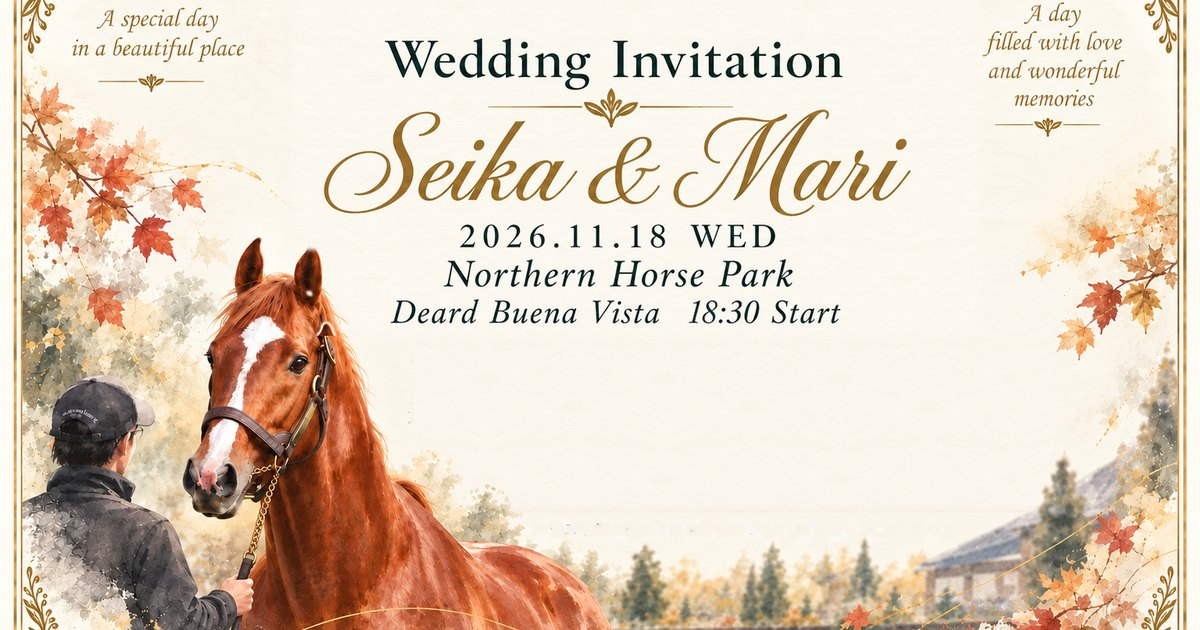
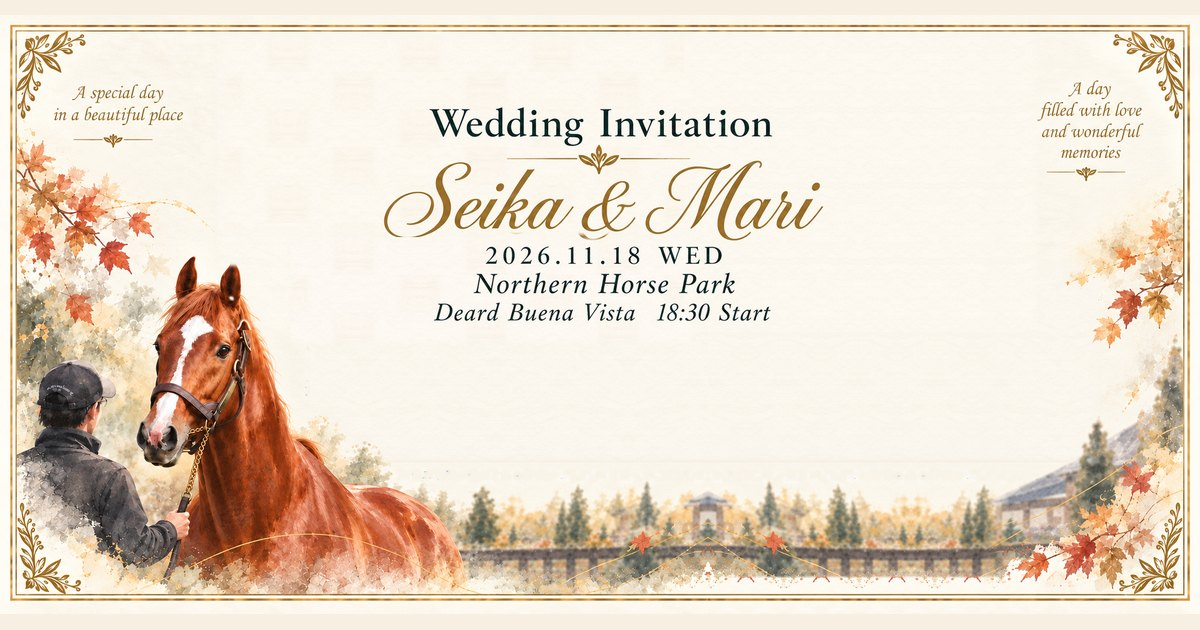
Widen the invitation, drop the scenery band, add more motion

diff --git a/index.html b/index.html
@@ -9,7 +9,7 @@
 <meta property="og:url" content="https://seika-mari-wedding.github.io/hokkaido/">
 <meta property="og:title" content="Seika &amp; Mari — お祝いの会のご案内">
 <meta property="og:description" content="2026年11月18日（水）午後6時30分 開宴／ノーザンホースパーク Deard Buena Vista">
-<meta property="og:image" content="https://seika-mari-wedding.github.io/hokkaido/ogp.jpg?v=2">
+<meta property="og:image" content="https://seika-mari-wedding.github.io/hokkaido/ogp.jpg?v=3">
 <meta property="og:image:width" content="1200">
 <meta property="og:image:height" content="630">
 <meta property="og:locale" content="ja_JP">
@@ -82,7 +82,8 @@ h1,h2,h3,p,dl,dd,figure{margin:0}
 .btn{display:inline-flex;align-items:center;justify-content:center;min-height:52px;padding:0 30px;border:1px solid var(--ink);
  font:400 11px var(--jps);letter-spacing:.3em;text-transform:uppercase;text-decoration:none;color:var(--ink);
  background:transparent;cursor:pointer;transition:background .35s ease,color .35s ease,border-color .35s ease}
-.btn:hover{background:var(--ink);color:var(--paper)}
+.btn:hover{background:var(--ink);color:var(--paper);transform:translateY(-2px)}
+.btn{transition:background .35s ease,color .35s ease,border-color .35s ease,transform .35s ease}
 .btn.fill{background:var(--ink);color:var(--paper)}
 .btn.fill:hover{background:transparent;color:var(--ink)}
 
@@ -91,7 +92,13 @@ h1,h2,h3,p,dl,dd,figure{margin:0}
 .sec-head{display:flex;align-items:baseline;gap:20px;margin-bottom:clamp(30px,5vw,52px)}
 .sec-no{font:300 11px var(--jps);letter-spacing:.3em;color:var(--gold)}
 .sec-en{font:300 11px var(--jps);letter-spacing:.42em;text-transform:uppercase;color:var(--sub)}
-.sec-line{flex:1;height:1px;background:var(--line)}
+.sec-line{flex:1;height:1px;background:var(--line);transform-origin:left;transform:scaleX(0);transition:transform 1.4s cubic-bezier(.19,1,.22,1) .25s}
+.sec-head.in .sec-line{transform:scaleX(1)}
+.sec-head .sec-no,.sec-head .sec-en{display:inline-block;opacity:0;transform:translateX(-14px);transition:opacity .9s ease,transform .9s cubic-bezier(.19,1,.22,1)}
+.sec-head .sec-en{transition-delay:.12s}
+.sec-head.in .sec-no,.sec-head.in .sec-en{opacity:1;transform:none}
+.sec-head .sec-ja{opacity:0;letter-spacing:.4em;transition:opacity 1.2s ease .3s,letter-spacing 1.6s cubic-bezier(.19,1,.22,1) .3s}
+.sec-head.in .sec-ja{opacity:1;letter-spacing:.16em}
 .sec-ja{font:400 clamp(24px,3.4vw,34px) var(--jp);letter-spacing:.16em}
 .letter{font:400 clamp(15px,1.6vw,17px)/2.85 var(--jp);letter-spacing:.1em;text-align:center}
 .letter + .letter{margin-top:30px}
@@ -104,6 +111,11 @@ h1,h2,h3,p,dl,dd,figure{margin:0}
  padding:clamp(44px,7vw,78px) clamp(24px,5vw,56px);box-shadow:0 24px 60px rgba(90,56,22,.1)}
 .card:before{content:"";position:absolute;inset:9px;border:1px solid #ecdcc0;pointer-events:none;z-index:2}
 .card{overflow:hidden;isolation:isolate}
+.js-rv .card.rv{opacity:1;transform:none;clip-path:inset(0 0 100% 0);transition:clip-path 1.6s cubic-bezier(.77,0,.18,1)}
+.js-rv .card.rv.in{clip-path:inset(0 0 0 0)}
+.line{display:block;opacity:0;transform:translateY(10px);filter:blur(3px);
+ transition:opacity 1.1s ease var(--ld,0s),transform 1.1s cubic-bezier(.19,1,.22,1) var(--ld,0s),filter 1.1s ease var(--ld,0s)}
+.letter.in .line{opacity:1;transform:none;filter:none}
 .card > *:not(.card-bg){position:relative;z-index:1}
 .card > .orn{position:absolute;z-index:2}
 .card-bg{position:absolute;inset:0;z-index:0;pointer-events:none}
@@ -133,8 +145,6 @@ h1,h2,h3,p,dl,dd,figure{margin:0}
 .stops span{display:block;margin-top:8px;font:300 10px var(--jps);letter-spacing:.34em;text-transform:uppercase;color:var(--sub)}
 
 
-.band{height:clamp(170px,26vw,280px);background:url(scene.webp) center 72%/cover no-repeat;
- -webkit-mask-image:linear-gradient(#0000,#000 38%,#000 76%,#0000);mask-image:linear-gradient(#0000,#000 38%,#000 76%,#0000)}
 
 .count{text-align:center;font:300 11px var(--jps);letter-spacing:.42em;text-transform:uppercase;color:var(--sub)}
 .count strong{display:block;font:300 clamp(54px,9vw,96px)/1.1 var(--serif);color:var(--gold);letter-spacing:.02em;margin-bottom:6px}
@@ -175,13 +185,23 @@ details p{padding:0 4px 24px;font:300 15px/2.2 var(--jps);color:var(--sub)}
 
 footer{padding:clamp(60px,9vw,96px) 0 clamp(50px,7vw,80px);text-align:center}
 .foot-names{font:400 clamp(38px,6vw,56px) var(--script);color:var(--gold)}
+.names-en,.foot-names{clip-path:inset(0 100% 0 0);transition:clip-path 2.2s cubic-bezier(.65,0,.35,1) .2s}
+.names-en.in,.foot-names.in{clip-path:inset(0 0 0 0)}
 .foot-meta{margin-top:14px;font:300 10px var(--jps);letter-spacing:.42em;text-transform:uppercase;color:var(--sub)}
 
 /* ── 動き ── */
 .rv{opacity:0;transform:translateY(22px)}
 .js-rv .rv{transition:opacity 1s ease var(--d,0ms),transform 1s cubic-bezier(.19,1,.22,1) var(--d,0ms)}
 .js-rv .rv.in{opacity:1;transform:none}
-.js-in .hero-card{animation:card-in 1.5s cubic-bezier(.19,1,.22,1) .1s both}
+.js-in .hero-card{animation:card-open 1.6s cubic-bezier(.77,0,.18,1) .1s both}
+.js-in .hero-card img{animation:card-zoom 3.2s cubic-bezier(.19,1,.22,1) .1s both}
+.hero-card:before{content:"";position:absolute;inset:0;z-index:1;pointer-events:none;
+ background:linear-gradient(105deg,rgba(255,250,236,0) 38%,rgba(255,250,236,.55) 50%,rgba(255,250,236,0) 62%);
+ transform:translateX(-120%)}
+.js-in .hero-card:before{animation:glint 2.4s ease 1.5s both}
+@keyframes card-open{from{clip-path:inset(0 50% 0 50%);opacity:.2}to{clip-path:inset(0 0 0 0);opacity:1}}
+@keyframes card-zoom{from{transform:scale(1.07)}to{transform:scale(1)}}
+@keyframes glint{from{transform:translateX(-120%)}to{transform:translateX(120%)}}
 .js-in .hero-under{animation:up 1.1s cubic-bezier(.19,1,.22,1) .8s both}
 .js-in .top,.js-in .scroll-cue{animation:fade 1.2s ease 1.2s both}
 @keyframes card-in{from{opacity:0;transform:translateY(34px) scale(.985)}to{opacity:1;transform:none}}
@@ -205,6 +225,10 @@ footer{padding:clamp(60px,9vw,96px) 0 clamp(50px,7vw,80px);text-align:center}
  .rv{opacity:1!important;transform:none!important}
  .leaves{display:none}
  [class*="js-in"] *{animation:none!important}
+ .card.rv,.names-en,.foot-names{clip-path:none!important}
+ .line,.sec-head *{opacity:1!important;transform:none!important;filter:none!important}
+ .sec-line{transform:none!important}
+ .hero-card:before{display:none}
  .scroll-cue:after{animation:none}
  html{scroll-behavior:auto}
 }
@@ -223,7 +247,7 @@ footer{padding:clamp(60px,9vw,96px) 0 clamp(50px,7vw,80px);text-align:center}
 <main id="main">
 <section class="hero">
   <figure class="hero-card">
-   <img src="card.webp?v=2" width="1600" height="1067" fetchpriority="high"
+   <img src="card.webp?v=3" width="2200" height="1097" fetchpriority="high"
     alt="Wedding Invitation Seika &amp; Mari／2026.11.18 WED／Northern Horse Park／Deard Buena Vista 18:30 Start と記された、紅葉と馬の水彩画の招待状">
   </figure>
   <div class="hero-under">
@@ -290,7 +314,6 @@ footer{padding:clamp(60px,9vw,96px) 0 clamp(50px,7vw,80px);text-align:center}
  </div>
 </section>
 
-<div class="band rv" aria-hidden="true"></div>
 
 <section class="section" id="countdown-sec">
  <p class="count rv"><strong data-countdown>—</strong>Days to go</p>
@@ -354,7 +377,7 @@ footer{padding:clamp(60px,9vw,96px) 0 clamp(50px,7vw,80px);text-align:center}
 </main>
 
 <footer>
- <p class="foot-names">Seika &amp; Mari</p>
+ <p class="foot-names rv">Seika &amp; Mari</p>
  <p class="foot-meta">18 . 11 . 2026 — Northern Horse Park</p>
 </footer>
 
@@ -414,6 +437,12 @@ document.documentElement.classList.add('js-in');
  run();
  setTimeout(() => { if(!started){ el.textContent = days; } }, 6000);   // 念のための保険
 })();
+
+/* ── ごあいさつの文章を一行ずつ浮かべる ── */
+document.querySelectorAll('.letter').forEach(p => {
+ const lines = p.innerHTML.split(/<br\s*\/?>/i).map(t => t.trim()).filter(Boolean);
+ p.innerHTML = lines.map((t, i) => '<span class="line" style="--ld:' + (0.25 + i * 0.32).toFixed(2) + 's">' + t + '</span>').join('');
+});
 
 /* ── スクロールで出てくる ── */
 (function(){
